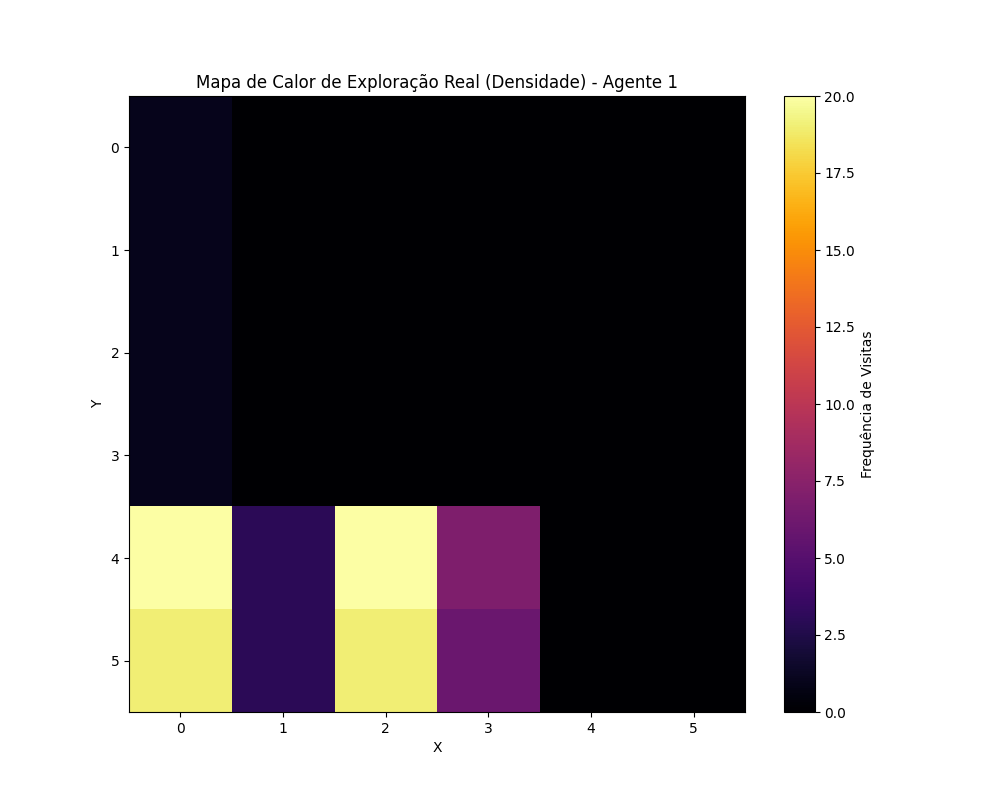
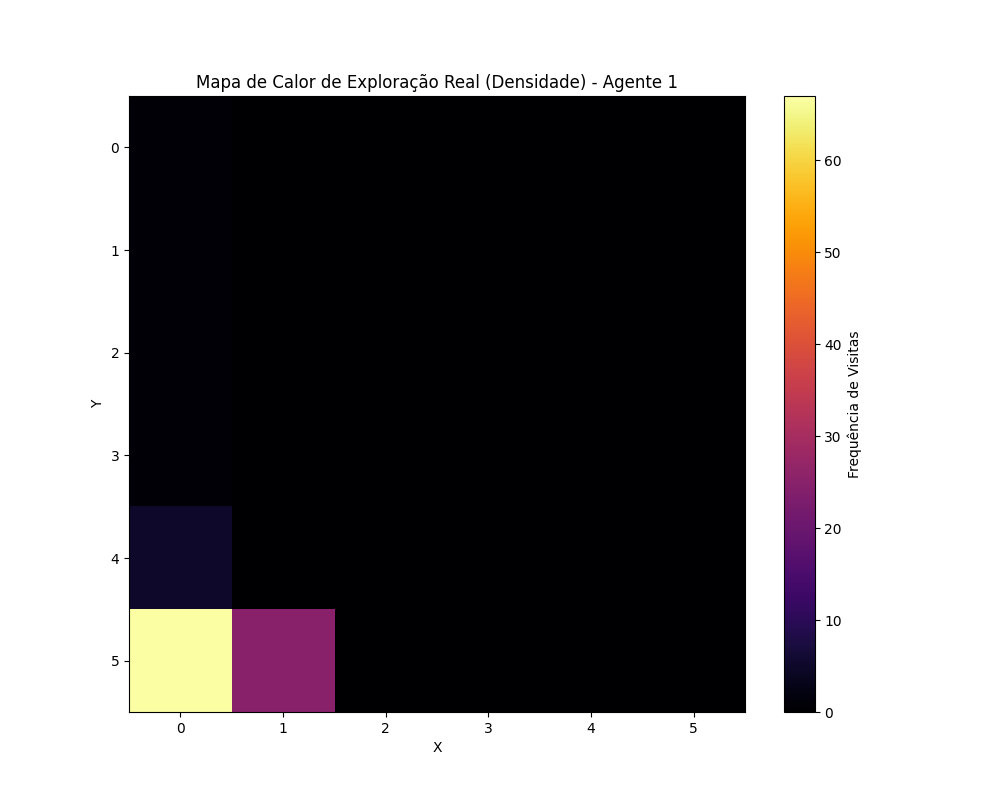
Fix Novelty policy credit assignment to prevent agent stagnation

Changed region(s): [[0.124, 0.625, 0.558, 0.9062], [0.806, 0.4062, 0.868, 0.625], [0.806, 0.1875, 0.837, 0.2188]]

diff --git a/dominio/politica_novelty.py b/dominio/politica_novelty.py
@@ -67,12 +67,14 @@ class PoliticaNovelty(PoliticaQlearning):
             self.arquivo_comportamentos.pop(0)
 
         # 4. Atualizar Q-Table com a Recompensa Intrínseca
-        # Replay do episódio aplicando a recompensa de novidade em cada passo
-        # Nota: Pode-se usar a recompensa apenas no último passo ou distribuída.
-        # Aqui vamos usar a mesma recompensa para toda a trajetória (crédito episódico).
-        for obs, accao, obs_nova in self.buffer_episodio:
-             # Chama a atualização da classe pai (Q-Learning) mas com a recompensa de novidade
-            super().atualizar(obs, accao, recompensa_intrinsica, obs_nova)
+        # Replay do episódio. A recompensa de novidade é atribuída apenas ao último passo
+        # para evitar reforçar comportamentos de 'ficar parado' que dominam a trajetória.
+        for i, (obs, accao, obs_nova) in enumerate(self.buffer_episodio):
+            r = 0.0
+            if i == len(self.buffer_episodio) - 1:
+                r = recompensa_intrinsica
+
+            super().atualizar(obs, accao, r, obs_nova)
 
         # Limpar buffer para o próximo episódio
         self.buffer_episodio.clear()
